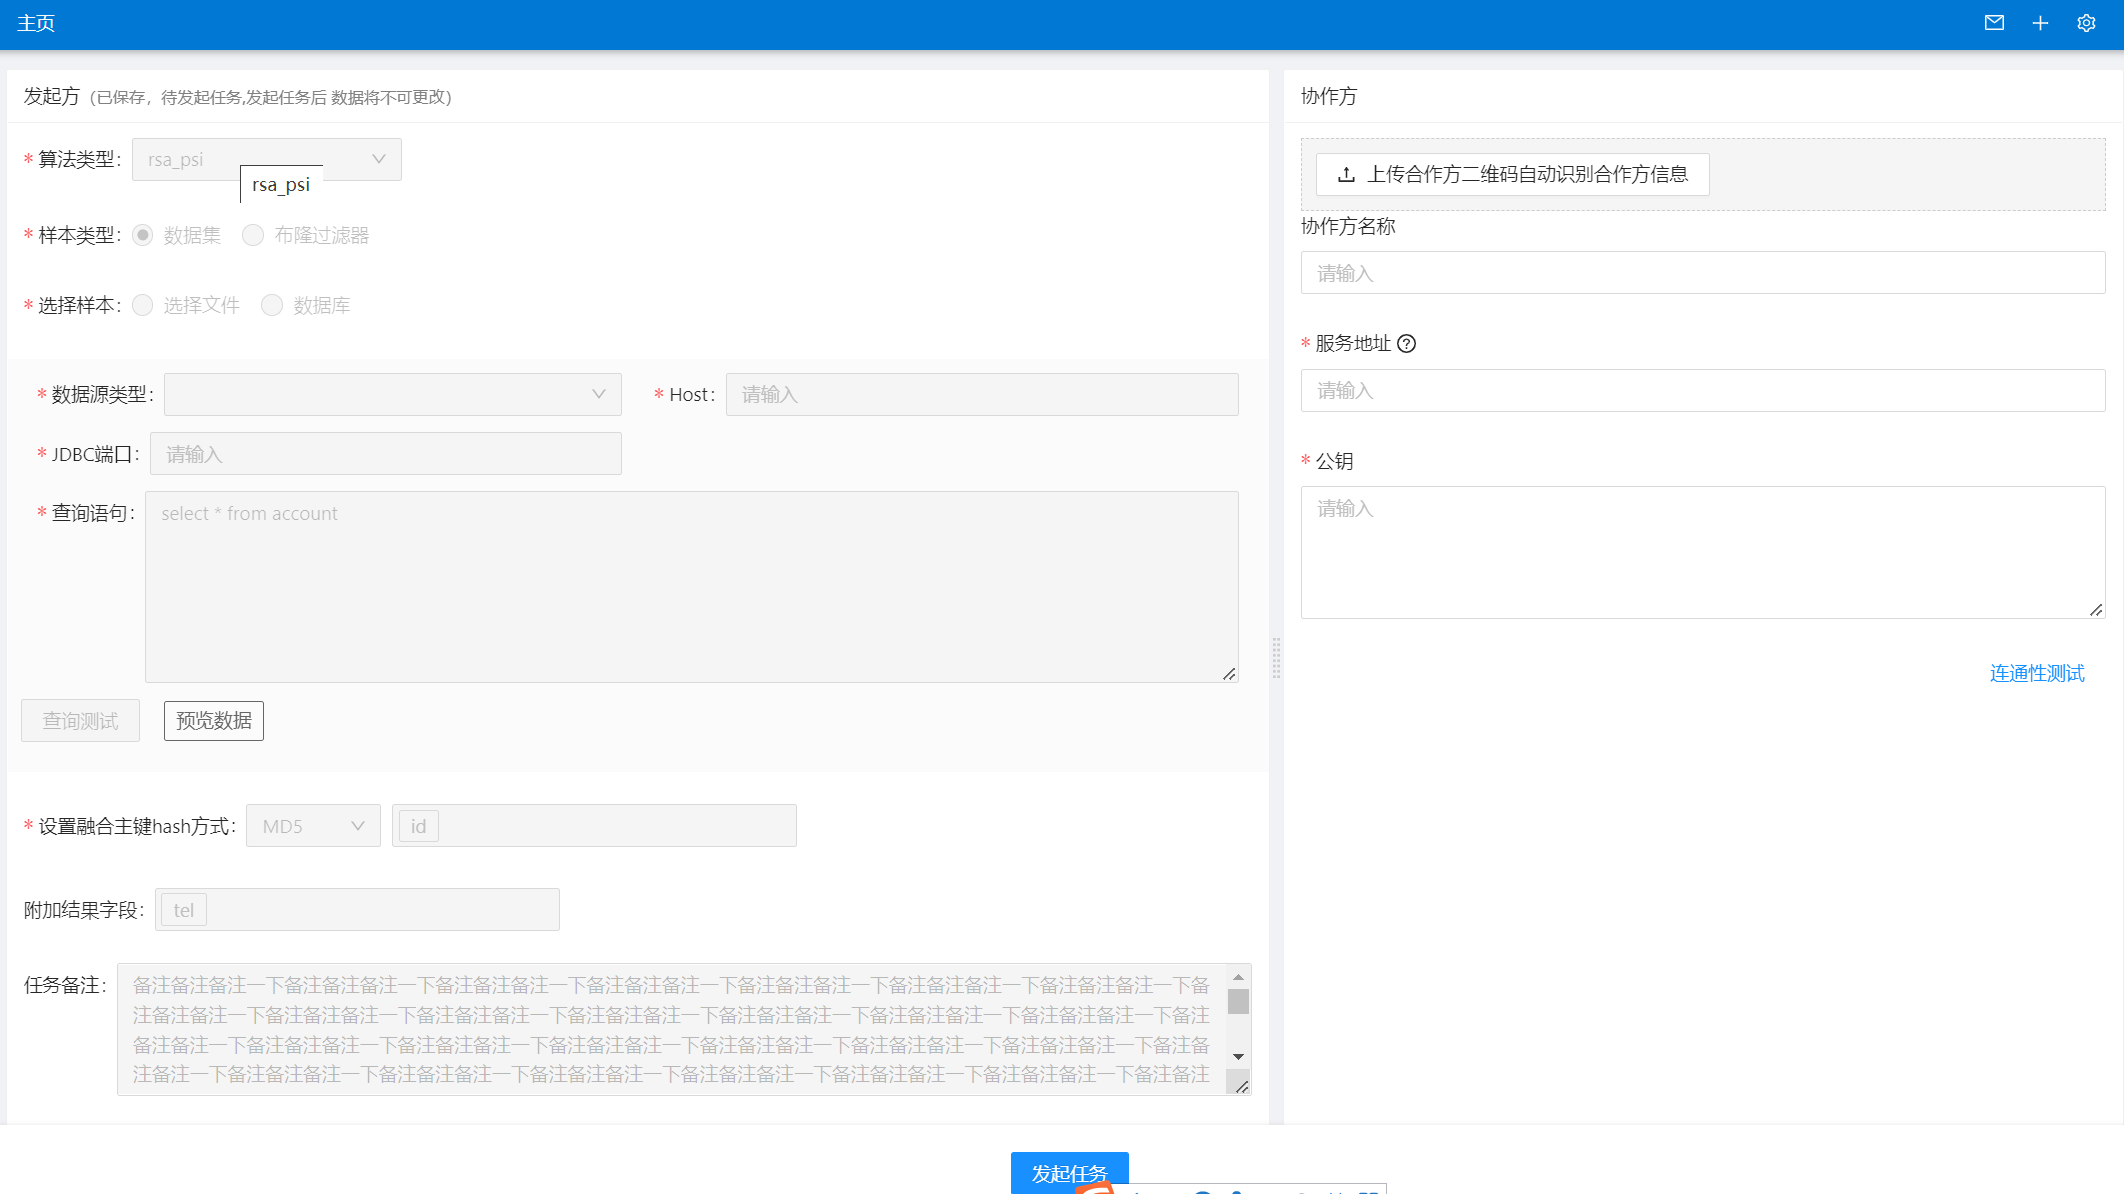
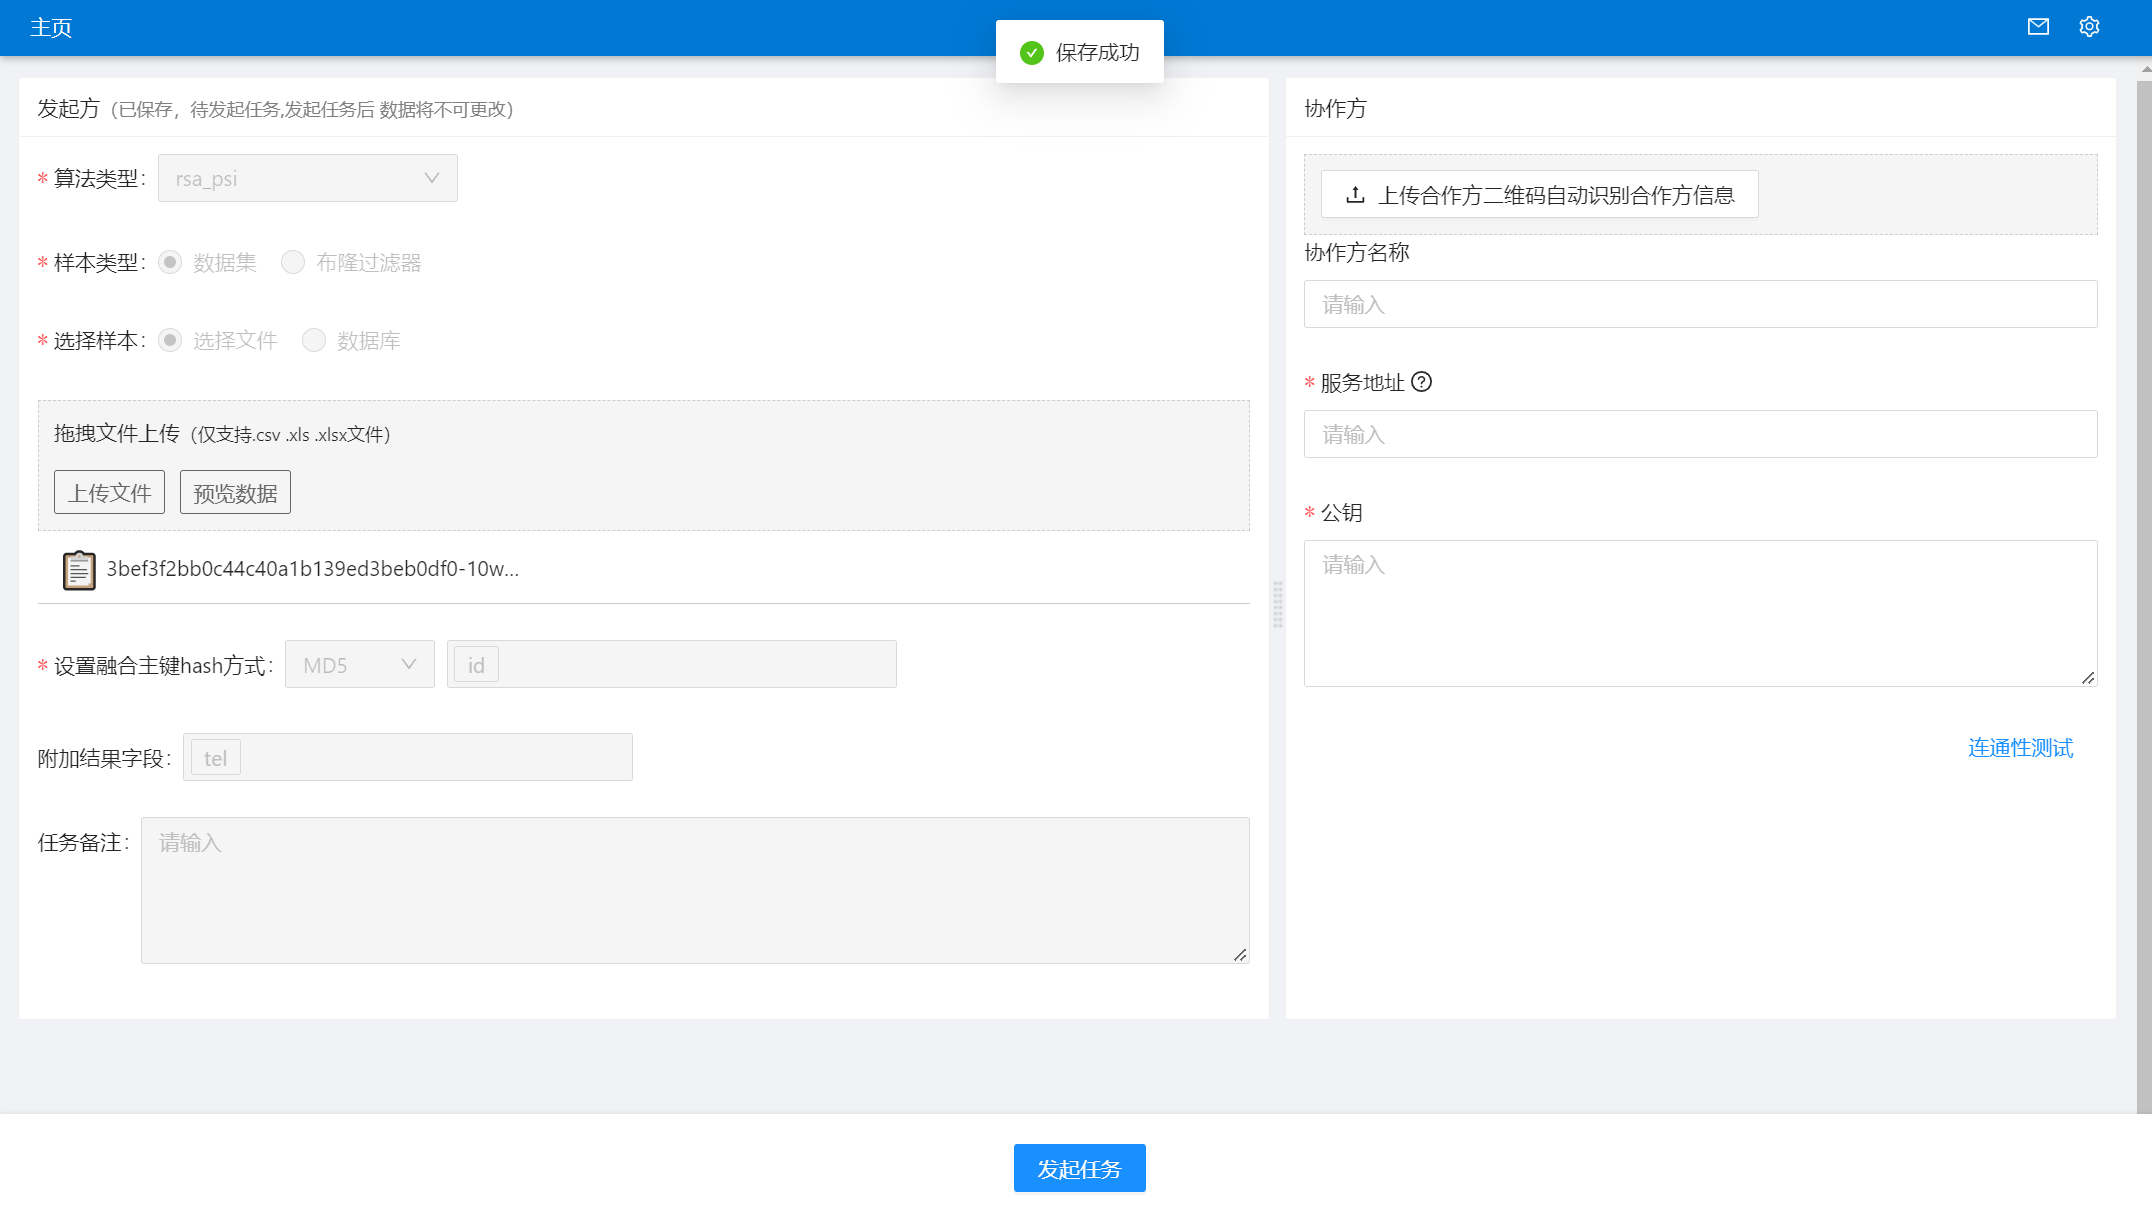
更新操作文档

diff --git a/docs/fusion.md b/docs/fusion.md
@@ -1,23 +1,10 @@
 # fusion
 
-数据融合工具系统
-
-**相比之前 fusion 的主要区别：**
-
-- 无额外的 socket 端口，传输文件使用 http 端口。
-- 使用程序自动创建的 sqlite 数据库，免配置，免安装。
-- 无数据集管理功能，数据不再抽取到 fusion 系统中，而是执行任务时从数据源即时读取。
-- 前端内置在 jar 包中
-- 支持 ecdh 和 rsa-bloom-filter 两种算法
-- 创建任务时允许双方都选择数据集，程序自动选择数据量大的一方生成过滤器后执行任务。
-- 回溯功能不再限制为时间字段，可以选择任意字段，且参与双方都能选择。
-
 ## 产品介绍
-
-xxxxxx
+数据融合是将来自不同来源、不同格式的数据整合到一起，以创建更完整、更综合的数据集合。通过数据融合，可以将散乱的数据汇集在一起，为数据分析、决策支持和业务应用提供可靠的数据基础。
+我们提出了采用基于ECDH（Elliptic Curve Diffie-Hellman）算法和RSA（Rivest-Shamir-Adleman）两种算法的数据融合方案，利用了非对称加密算法，确保数据在传输和处理过程中的安全性和完整性，提高了数据融合的准确性和可靠性，进一步加强了金融风控和欺诈检测的能力。
 
 ## 功能介绍
-
 ### 注册登录
 
 首次登录系统时需要注册，输入用户名和密码，点击**注册**，成功进入系统首页。
@@ -46,7 +33,7 @@ xxxxxx
 ### 发起任务
 用户进入系统首页后可发起数据融合任务：
 
-1. 点击**发起任务**按钮，跳转任务创建页面，上传发起方数据集，设置融合主键及其加密方式；
+1. 点击**发起任务**按钮，跳转任务创建页面，上传发起方数据资源，设置融合主键及其加密方式；
 
 ![创建任务](images/job_create.png)
 
@@ -54,21 +41,41 @@ xxxxxx
 - 样本类型支持数据集文件及过滤器文件。
 - 样本来源支持文件 *（csv，xls，xlsx)* 上传及数据库上传，数据库类型支持 *Mysql，Doris，Hive*。
 - 设置融合主键hash方式，支持*md5*和*sha256*两种hash方式对主键进行加密。
-- 添加附加字段，融合结果除返回融合主键外，新增融合结果的返回字段。
+- 添加附加字段，融合结果除返回融合主键外，新增融合结果的返回字段。 
+
+使用数据集上传样本如下：
+
+选择文件上传，扫描完成后可设置融合主键hash方式，支持*md5*和*sha256*两种hash方式对主键进行加密。
+
+![数据源上传](images/dataset_upload.png)
+
+使用过滤器文件上传如下：
+
+样本类型选择布隆过滤器，点击**选择布隆过滤器**,选择过滤器文件，自动关联主键及其加密方式:
+
+![过滤器上传](images/bloom_filter_upload.png)
+> 这里的过滤器文件来源于当前成员在历史合作融合任务自动生成的过滤器，当两方进行数据融合时，由样本量较大的那一方自动生成过滤器文件。
+
+选择数据库上传样本如下：
+
+![数据库上传](images/database_upload.png)
+
+样本上传完成后并设置融合组件及其加密方式后，点击**保存**按钮。
 
 2. 配置协作方信息
+
 用户填写合作方配置信息后，点击**连通性测试**测试通过后，可发起融合任务。
 
 ![合作方信息](images/create_job_partner.png)
 
-填写合作方配置 有两种方式：
+填写合作方配置有两种方式：
 - 用户通过上传合作方二维码识别合作方配置信息，上传二维码后，点击**识别二维码**按钮，合作方服务信息及公钥自动填充；
 
 ![识别二维码](images/scan_code.png)
 - 用户手动填写合作方配置信息，如协作方名，可自定义；协作方服务地址及公钥，由合作方提供后填写。
 
 3. 发起任务
-发起方及协作方信息都填写完成后，点击**发起任务**按钮，创建融合任务，创建成功后等待合作方进行任务审核。发起成功后主页展示任务列表。
+发起方及协作方信息都填写完成后，点击**发起任务**按钮，创建融合任务，创建成功后等待合作方进行任务审核，发起成功后主页展示任务列表。
 
 ![发起任务](images/send_job.png)
 
@@ -85,13 +92,16 @@ xxxxxx
 ![合作方审核](images/partner_audit.png)
 > 注意：合作方主键加密方式需一致。
 
-### 任务创建
-
-
+### 任务执行
+合作方审核任务通过后，任务开始执行，主页展示任务列表，状态为运行中；
 ![任务运行](images/job_running.png)
 
-
+点击详情可见任务信息，多方详情及任务进度。
 ![任务进度](images/job_process.png)
 
-
 ### 查看融合结果
+任务执行成功后，在任务详情页，可预览结果，展示融合字段及附加字段，该预览功能只展示部分融合结果：
+![结果预览](images/result_preview.png)
+
+点击下载结果将融合结果下载为csv文件查看。
+![结果下载](images/result_download.png)
